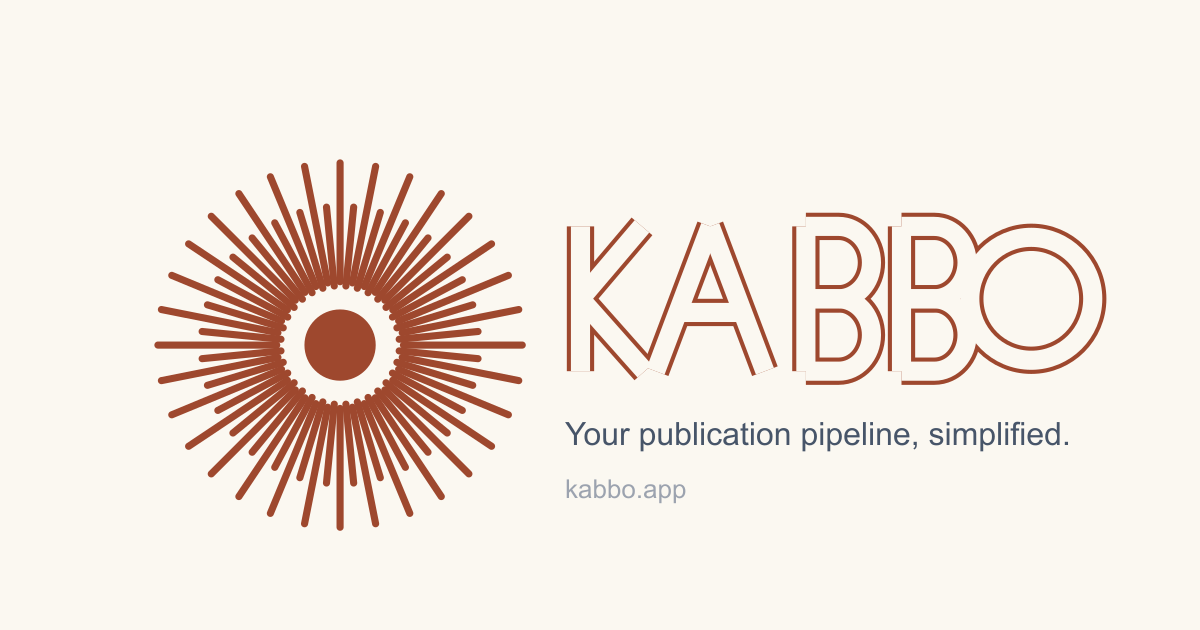
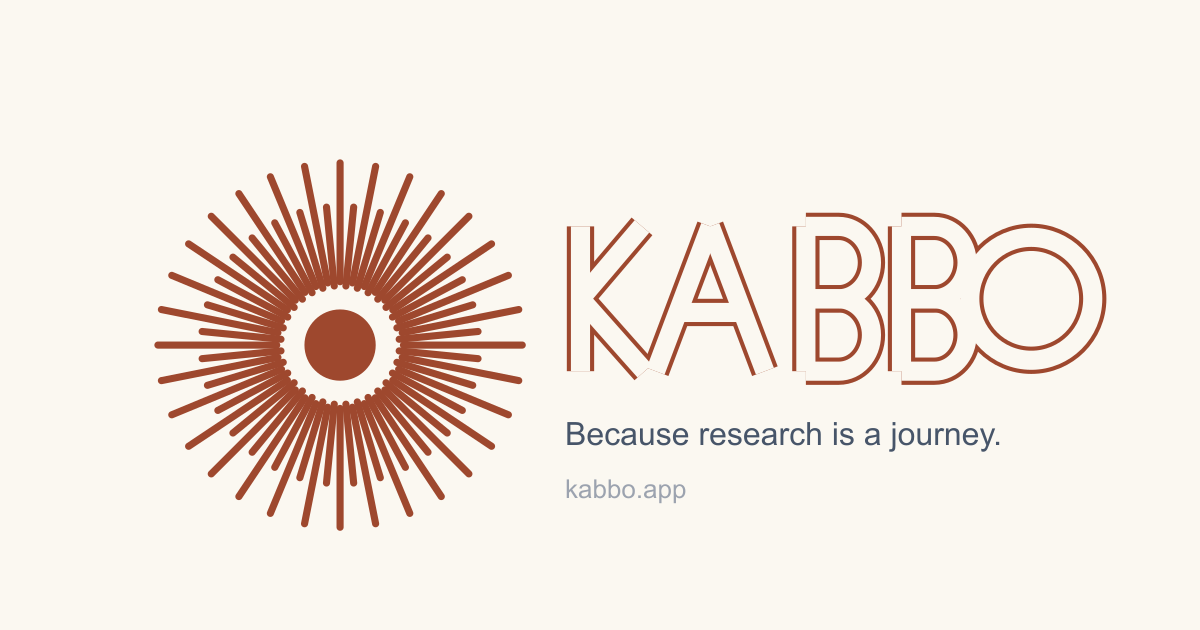
kabbo: update byline to 'Because research is a journey.'
Replace 'Your publication pipeline, simplified.' across the header, About
page, Auth page, board subtitle defaults, OG social card, and the <meta>
descriptions. Regenerate the OG image so shares reflect the new tagline.

Changed region(s): [[0.4625, 0.6635, 0.8942, 0.7238]]

diff --git a/kabbo/index.html b/kabbo/index.html
@@ -4,12 +4,12 @@
     <meta charset="UTF-8" />
     <meta name="viewport" content="width=device-width, initial-scale=1.0" />
     <title>Kabbo – Academic Publication Pipeline</title>
-    <meta name="description" content="Your publication pipeline, simplified. A beautiful, minimalist research pipeline for academics." />
+    <meta name="description" content="Because research is a journey. A beautiful, minimalist publication pipeline for academics." />
     <meta name="author" content="Johan Fourie" />
     <meta name="keywords" content="academic publications, research tracker, publication pipeline, manuscript management, academic writing, kabbo" />
 
     <meta property="og:title" content="Kabbo – Academic Publication Pipeline" />
-    <meta property="og:description" content="Your publication pipeline, simplified. A beautiful, minimalist research pipeline for academics." />
+    <meta property="og:description" content="Because research is a journey. A beautiful, minimalist publication pipeline for academics." />
     <meta property="og:type" content="website" />
     <meta property="og:url" content="https://kabbo.app" />
     <meta property="og:image" content="https://kabbo.app/og-image.png" />

diff --git a/kabbo/src/hooks/useSupabasePublications.ts b/kabbo/src/hooks/useSupabasePublications.ts
@@ -126,7 +126,7 @@ export function useSupabasePublications() {
   // Board config (stored locally for now)
   const [board] = useState({
     title: 'Kabbo',
-    subtitle: 'Your publication pipeline, simplified.',
+    subtitle: 'Because research is a journey.',
     paletteId: 'burnt-fieldnotes',
     stages: [...DEFAULT_STAGES],
     createdAt: new Date().toISOString(),

diff --git a/kabbo/src/components/AppHeader.tsx b/kabbo/src/components/AppHeader.tsx
@@ -61,7 +61,7 @@ export function AppHeader({ title, subtitle, profile, onSignOut, onProfileUpdate
 
             {/* Byline */}
             <p className="text-muted-foreground text-xs md:text-sm leading-none hidden sm:block truncate">
-              Your publication pipeline, simplified.
+              Because research is a journey.
             </p>
           </div>
 

diff --git a/kabbo/src/pages/About.tsx b/kabbo/src/pages/About.tsx
@@ -24,7 +24,7 @@ export default function About() {
               <KabboWordmark height={44} />
             </h1>
             <p className="text-muted-foreground text-sm mt-2">
-              Your publication pipeline, simplified.
+              Because research is a journey.
             </p>
           </div>
         </div>

diff --git a/kabbo/src/lib/storage.ts b/kabbo/src/lib/storage.ts
@@ -135,7 +135,7 @@ export function createEmptyState(): PubFlowState {
   return {
     board: {
       title: 'Kabbo',
-      subtitle: 'Your publication pipeline, simplified.',
+      subtitle: 'Because research is a journey.',
       paletteId: 'burnt-fieldnotes',
       stages: [...DEFAULT_STAGES],
       createdAt: now,

diff --git a/kabbo/src/pages/Auth.tsx b/kabbo/src/pages/Auth.tsx
@@ -160,7 +160,7 @@ export default function Auth() {
             </h1>
           </div>
           <p className="text-muted-foreground">
-            Your publication pipeline, simplified.
+            Because research is a journey.
           </p>
         </div>
 
